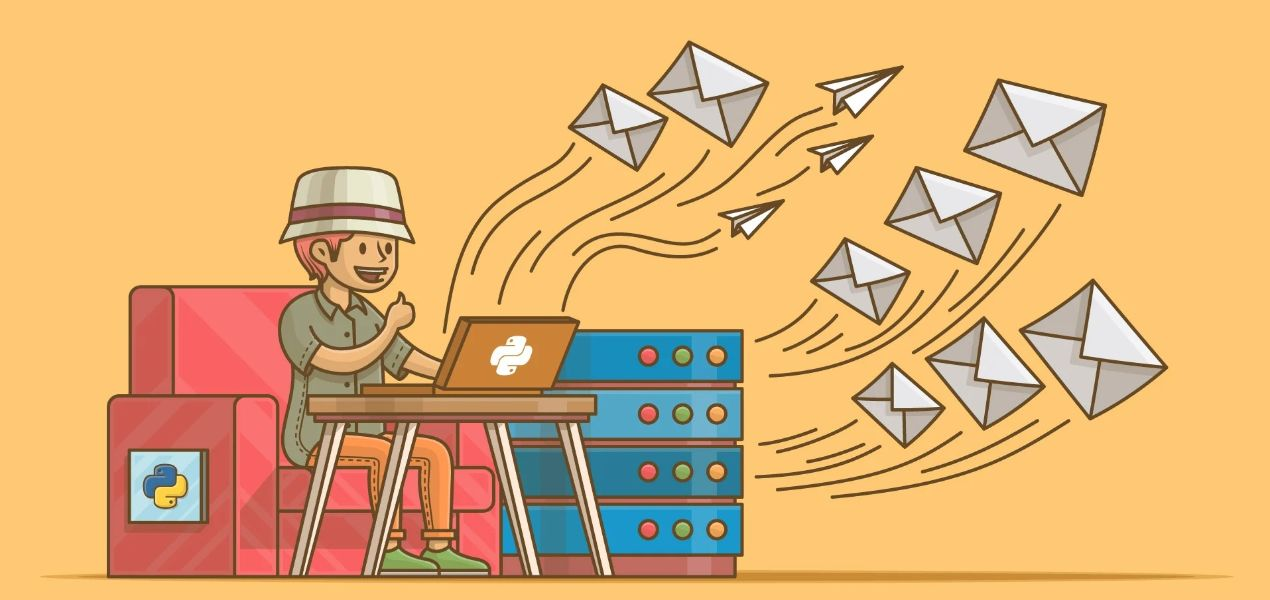
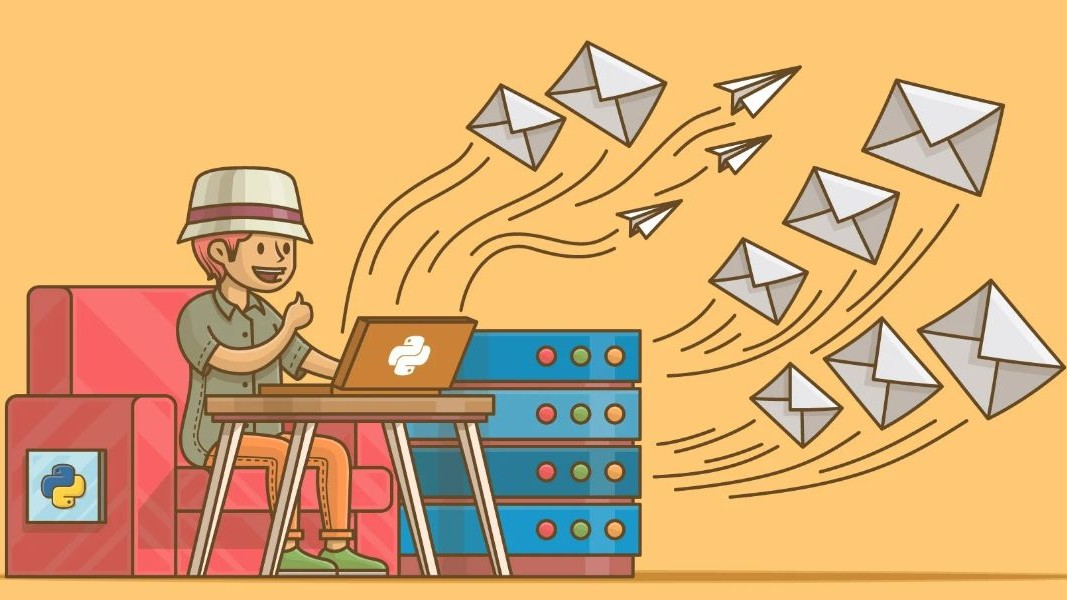
Portfolio Modification

diff --git a/index.html b/index.html
@@ -80,8 +80,8 @@
           <li><a href="#portfolio"> <span>Projects</span></a></li>
           <li><a href="#skills"> <span>Skills</span></a></li>
           <!-- to change resume -->
-          <li><a href="https://drive.google.com/file/d/1Vb_gP-KCDKgrFu9MoUhljDe_HQM46y1K/view?usp=drivesdk" target="_blank"> <span>Resume</span></a></li>
-          <!-- <li><a href="#links"> <span>Resume & Links</span></a></li> -->
+          <!-- <li><a href="https://drive.google.com/file/d/1OiZn_JothmJwUIrzYakm8WPMU2webZDL/view?usp=drivesdk" target="_blank"> <span>Resume</span></a></li> -->
+          <li><a href="#links"> <span>Resume</span></a></li>
           <li><a href="#contacts"> <span>Contact</span></a></li>
 
         </ul>
@@ -108,13 +108,15 @@
       </div>
 
       <div class="row">
-        <div class="col-lg-4" data-aos="fade-right">
+        <!-- <div class="col-lg-4" data-aos="fade-right">
           <img src="assets/img/education/devarajesh.jpg" style="border-radius:5px;" class="img-fluid" alt="rajesh_image">
-        </div>
-        <div class="col-lg-8 pt-4 pt-lg-0 content" data-aos="fade-left">
-          <p>Focused and enthusiastic developer with a keen interest in software development and artificial intelligence. By comprehensive exposure
+        </div> -->
+        <div class="col-lg-12 pt-4  content" data-aos="fade-left">
+          <!-- <p>Focused and enthusiastic developer with a keen interest in software development and artificial intelligence. By comprehensive exposure
             to the underlying concepts and applying them vividly to various projects, my love for these domains came into being.
             I am a passionate individual who thrives to build and apply algorithms to solve real-world industry problems.
+          </p> -->
+          <p>MCA graduate with a strong foundation in computer science and practical experience in web development. Interested in software development roles, including frontend and backend development, with a focus on building reliable and efficient applications. Holds a growing interest in artificial intelligence, developed through academic projects and self-learning. Looking to contribute to a dynamic team and continue developing skills in a professional environment.
           </p>
           <div class="row">
             <div class="col-lg-6">
@@ -146,7 +148,7 @@
         <div class="col-lg-3 col-md-4">
           <div class="icon-box">
             <i class="ri-global-line" style="color: #ffbb2c;"></i>
-            <h3>Software Development</h3>
+            <h3>Web Development</h3>
           </div>
         </div>
         <!-- <div class="col-lg-3 col-md-4 mt-4 mt-md-0 mt-lg-0">
@@ -156,25 +158,31 @@
           </div>
         </div> -->
         
-        <div class="col-lg-3 col-md-4 mt-4 mt-md-0 mt-lg-0">
+        <!-- <div class="col-lg-3 col-md-4 mt-4 mt-md-0 mt-lg-0">
           <div class="icon-box">
             <i class="ri-english-input" style="color: #1c7d32;"></i>
             <h3>Web Devolepment</h3>
           </div>
-        </div>
+        </div> -->
         <div class="col-lg-3 col-md-4 mt-4 mt-lg-0">
           <div class="icon-box">
             <i class="ri-code-s-slash-fill" style="color: #28a745;"></i>
             <h3>Software Engineering</h3>
           </div>
         </div>
-        <div class="col-lg-3 col-md-4 mt-4 ">
+        <div class="col-lg-3 col-md-4 mt-4 mt-lg-0">
+          <div class="icon-box">
+            <i class="ri-bar-chart-box-line" style="color: #f1081f;"></i>
+            <h3>Data Structures</h3>
+          </div>
+        </div>
+        <!-- <div class="col-lg-3 col-md-4 mt-4 ">
           <div class="icon-box">
             <i class="ri-bar-chart-box-line" style="color: #f1081f;"></i>
             <h3>Datastructures</h3>
           </div>
-        </div>
-        <div class="col-lg-3 col-md-4 mt-4">
+        </div> -->
+        <div class="col-lg-3 col-md-4 mt-4 mt-lg-0">
           <div class="icon-box">
             <i class="ri-file-list-3-line" style="color: #47aeff;"></i>
             <h3>Algorithms</h3>
@@ -418,23 +426,7 @@
 
         
 
-        <!-- <div class="col-lg-4 col-md-6 portfolio-item filter-app">
-          <center><h4>Live Snake Game</h4></center>
-          <div class="portfolio-wrap">
-            <img src="assets/img/project/snake.jpg" class="img-fluid" alt="">
-            <div class="portfolio-info">
-              
-              <div class="portfolio-links">
-                <a href="projects/Live snake game.html" data-gall="portfolioDetailsGallery" data-vbtype="iframe" class="venobox" title="Project Details"><i class="bx bx-info-circle"></i></a>
-              </div>
-            </div>
-          </div>
-        </div> -->
-
-        
-        
         <div class="col-lg-4 col-md-6 portfolio-item filter-app">
-          <br>
           <center><h4>My Portfolio</h4></center>
           <div class="portfolio-wrap">
             <img src="assets/img/project/blog.jpg" class="img-fluid" alt="">
@@ -468,7 +460,7 @@
                   <img src="https://www.vectorlogo.zone/logos/java/java-horizontal.svg" style="margin-left: 20px;" alt="vectorlogo.zone" height="50" width="120">
                   <img src="https://www.vectorlogo.zone/logos/sqlite/sqlite-ar21.svg" alt="vectorlogo.zone" style="margin-left: 20px;" height="100" width="130">
                   <img src="https://www.vectorlogo.zone/logos/mysql/mysql-horizontal.svg" alt="vectorlogo.zone" style="margin-left: 20px;" height="70" width="130">
-                  <img src="https://www.vectorlogo.zone/logos/mongodb/mongodb-ar21.svg" alt="vectorlgo.zone" style="margin-left: 20px;" height="100" width="130">
+                  <!-- <img src="https://www.vectorlogo.zone/logos/mongodb/mongodb-ar21.svg" alt="vectorlgo.zone" style="margin-left: 20px;" height="100" width="130"> -->
 
                 </p>
             </div>
@@ -480,8 +472,8 @@
                   <img src="https://www.vectorlogo.zone/logos/w3_css/w3_css-ar21.svg" style="margin-left: 20px;" alt="vectorlogo.zone" height="50" width="120">
                   <img src="https://www.vectorlogo.zone/logos/javascript/javascript-ar21.svg" alt="vectorlogo.zone" style="margin-left: 20px;" height="70" width="100">
                   <img src="https://www.vectorlogo.zone/logos/getbootstrap/getbootstrap-ar21.svg" alt="vectorlogo.zone" style="margin-left: 20px;" height="70" width="130">
-                  <img src="assets/img/flexbox.jpg" alt="vectorlgo.zone" style="margin-left: 20px;" height="120" width="130">
                   <img src="https://www.vectorlogo.zone/logos/reactjs/reactjs-ar21.svg" alt="vectorlgo.zone" style="margin-left: 20px;" height="100" width="130">
+                  <img src="assets/img/nodejs.png" alt="vectorlgo.zone" style="margin-left: 20px;" height="120" width="130">
               </p>
           </div>
           <div class="col-md-12 mt-4 mt-md-0 icon-box" data-aos="lefade-up" data-aos-delay="100" style="background:#fff">
@@ -510,8 +502,8 @@
       </div>
       <div class="row">
         <div class="col-md-3 mt-4 mt-md-0 icon-box" data-aos="fade-up" data-aos-delay="100">
-          <a href="https://drive.google.com/file/d/1OiZn_JothmJwUIrzYakm8WPMU2webZDL/view?usp=drivesdk" target="_blank"><div class="icon"><i class="icofont-page"></i></div></a>
-          <h4 class="title"><a href="https://drive.google.com/file/d/1OiZn_JothmJwUIrzYakm8WPMU2webZDL/view?usp=drivesdk" target="_blank">Resume</a></h4>
+          <a href="https://drive.google.com/file/d/10PwLA-K6iCNAWanZEc-JyoFPHDv5Mrgo/view?usp=drivesdk" target="_blank"><div class="icon"><i class="icofont-page"></i></div></a>
+          <h4 class="title"><a href="https://drive.google.com/file/d/10PwLA-K6iCNAWanZEc-JyoFPHDv5Mrgo/view?usp=drivesdk" target="_blank">Resume</a></h4>
           <p class="description" style="color:#fff;">The link contains downloadable resume</p>
         </div>
       </div>
@@ -557,7 +549,7 @@
             <i class="bx bx-envelope"></i>
             <h3>Email</h3>
             <p>rajeshaddala7@gmail.com</p>
-            <p>rajeshaddala03@gmail.com</p>
+            <p>devarajeshaddala@gmail.com</p>
           </div>
         </div>
         <div class="col-md-6 mt-4 d-flex align-items-stretch">
